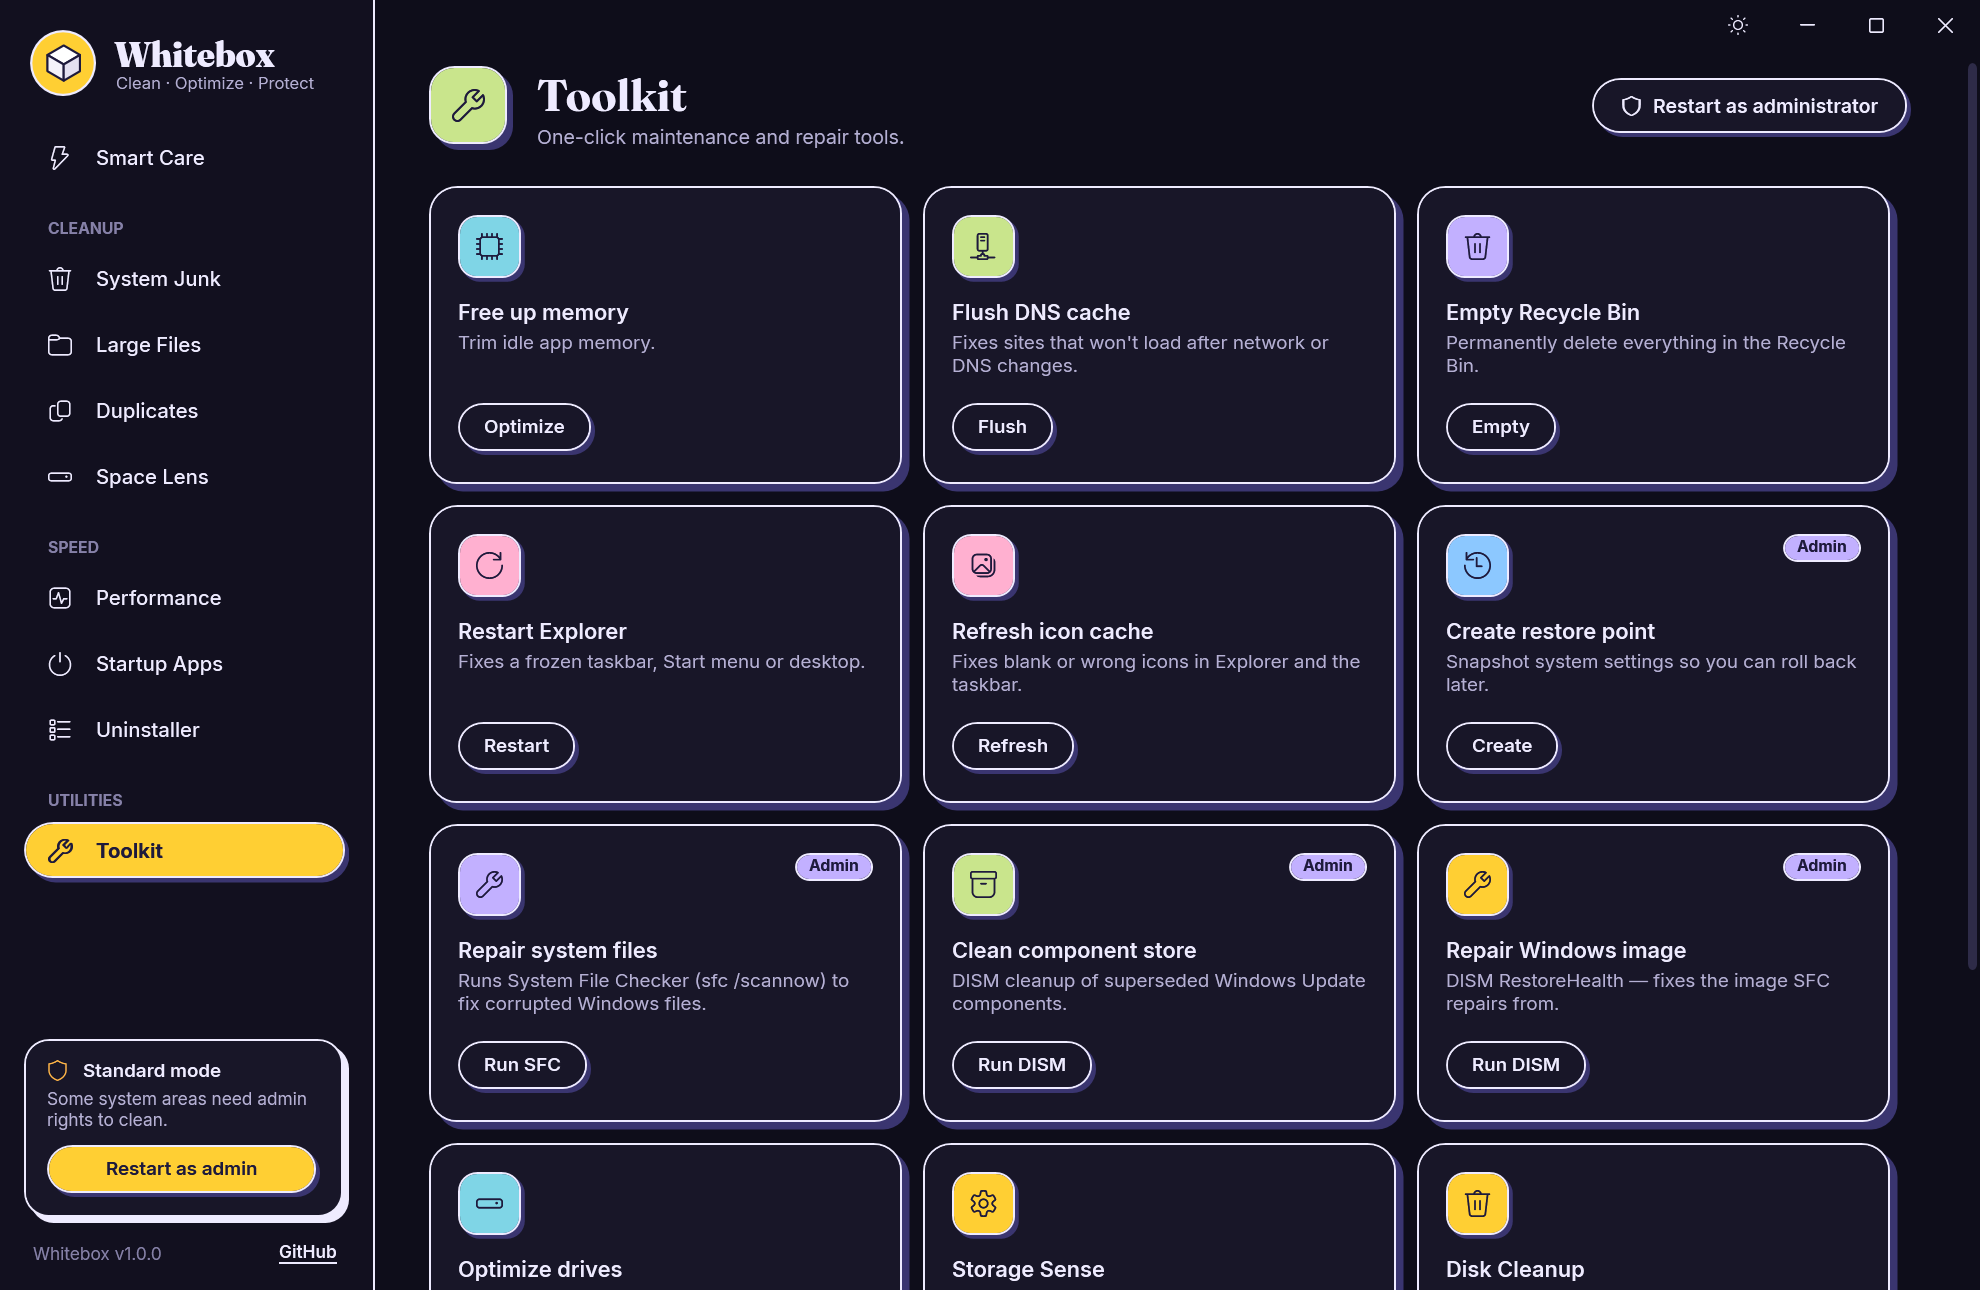
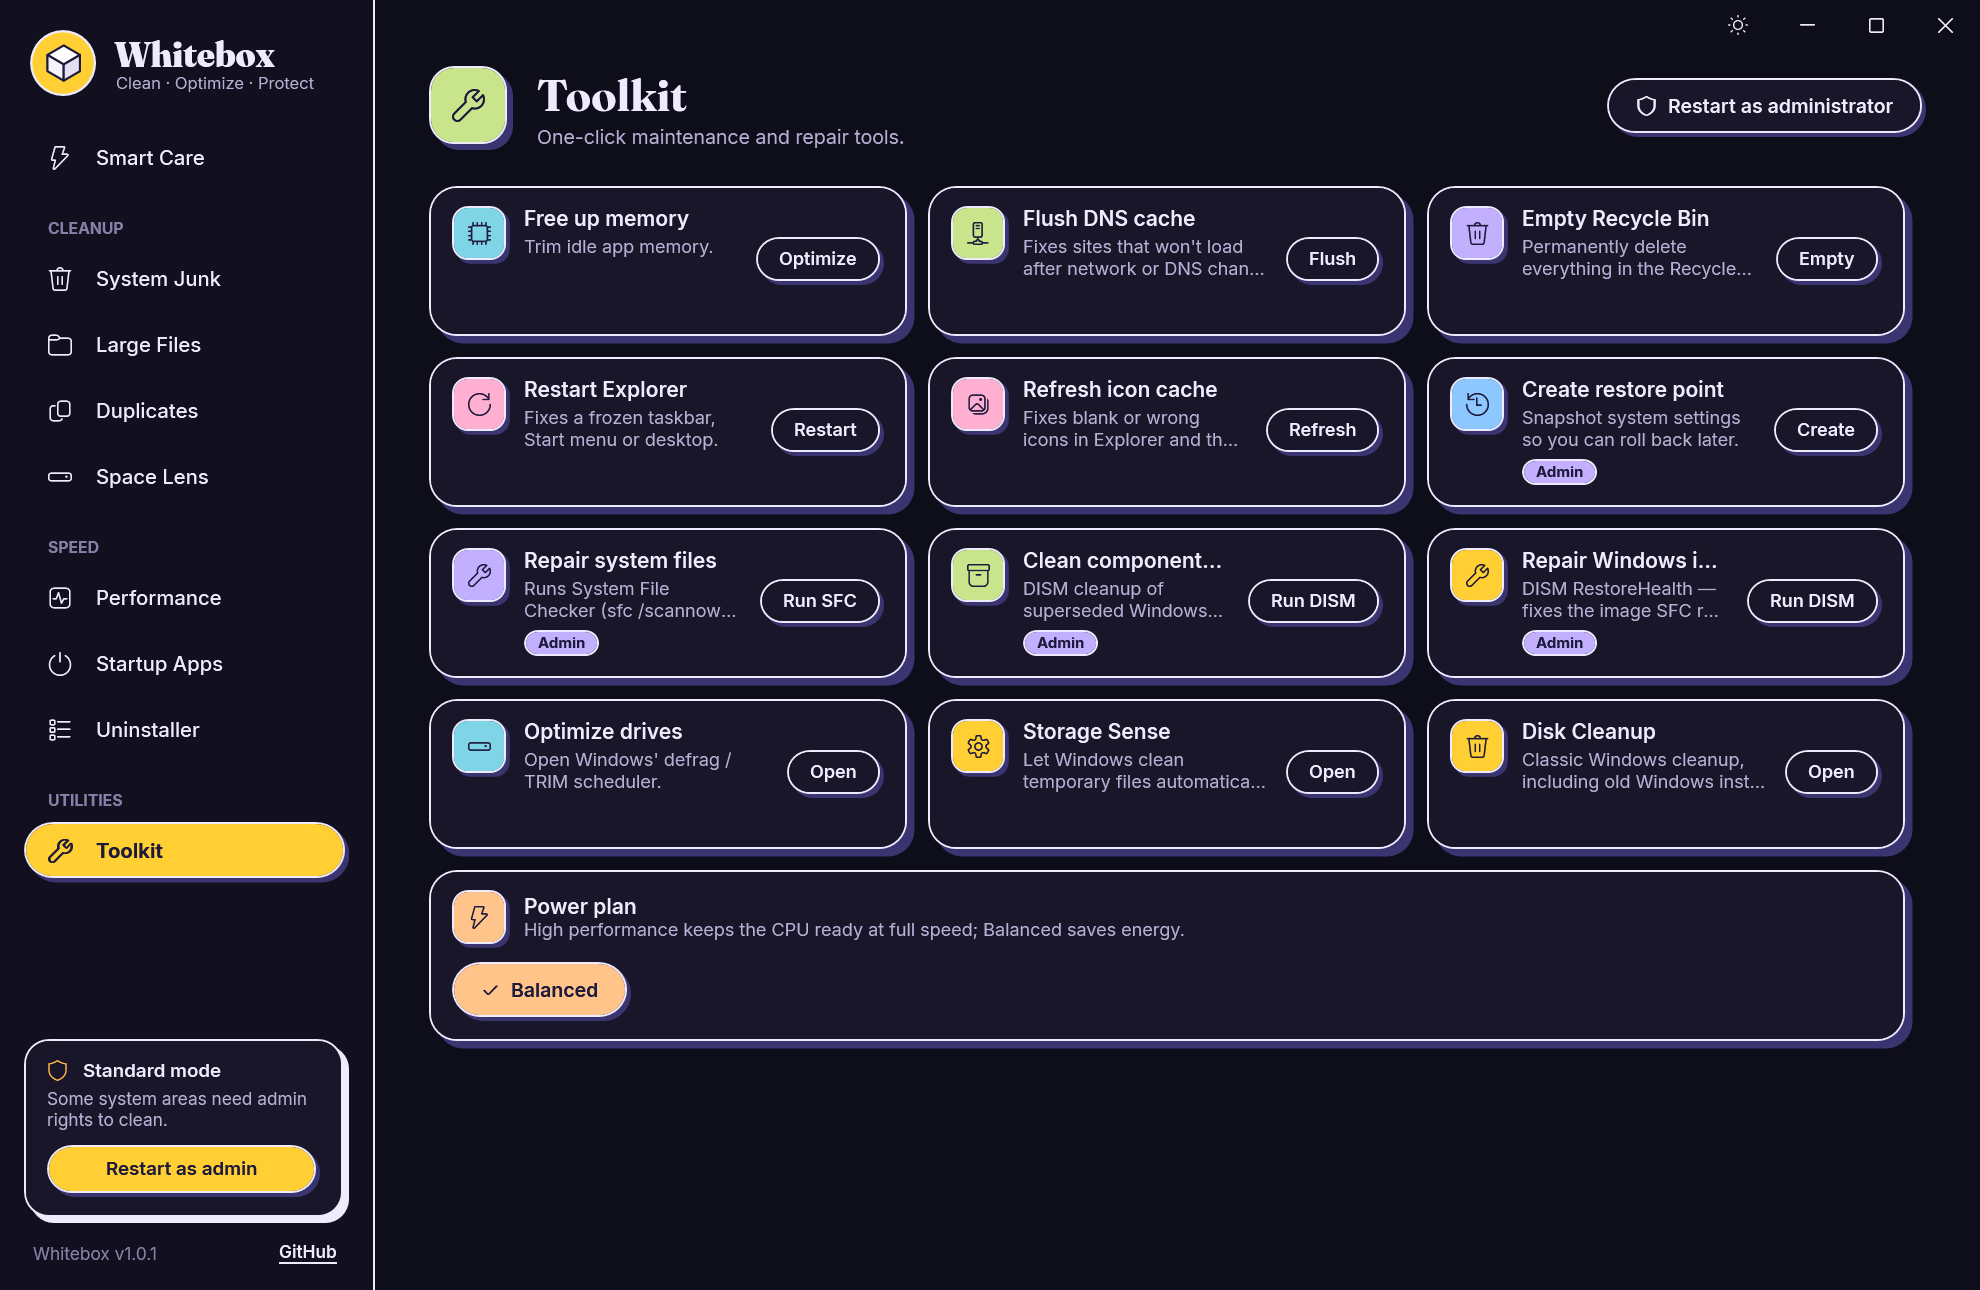
Compact Toolkit cards so the page fits on one screen; release 1.0.1
Tool cards are now single rows (icon, text, action) instead of tall tiles,
so all tools and the power plan fit without scrolling. The Admin chip moves
to the status line so it no longer crowds titles, and the active power plan
button keeps dark text in dark mode.

Changed region(s): [[0.2157, 0.031, 1.0, 1.0], [0.9551, 0.9302, 0.9859, 1.0]]

diff --git a/Views/ToolsView.xaml b/Views/ToolsView.xaml
@@ -22,47 +22,55 @@
                 </ItemsControl.ItemsPanel>
                 <ItemsControl.ItemTemplate>
                     <DataTemplate>
-                        <c:Surface Style="{StaticResource Card}" Margin="0,0,14,14" Padding="18">
-                            <DockPanel>
-                                <DockPanel DockPanel.Dock="Top">
-                                    <c:Surface Style="{StaticResource Tile}" Width="42" Height="42" CornerRadius="12" Background="{Binding Title, Converter={StaticResource NameBrush}}">
-                                        <TextBlock Text="{Binding Glyph}" Style="{StaticResource Icon}" FontSize="18" Foreground="{DynamicResource OnFill}" />
-                                    </c:Surface>
-                                    <Border DockPanel.Dock="Right" Style="{StaticResource Chip}" Background="{StaticResource Lilac}" VerticalAlignment="Top"
-                                            Visibility="{Binding NeedsAdmin, Converter={StaticResource BoolToVis}}">
-                                        <TextBlock Text="Admin" FontSize="10.5" FontWeight="Bold" />
-                                    </Border>
-                                    <Border />
-                                </DockPanel>
-                                <TextBlock DockPanel.Dock="Top" Text="{Binding Title}" Style="{StaticResource H3}" FontSize="14.5" Margin="0,14,0,4" />
-                                <TextBlock DockPanel.Dock="Top" Text="{Binding Description}" Style="{StaticResource Sub}" TextWrapping="Wrap" Height="36" />
-                                <DockPanel DockPanel.Dock="Bottom" Margin="0,12,0,0">
-                                    <Button DockPanel.Dock="Left" Style="{StaticResource GhostButton}" Content="{Binding ActionText}" Command="{Binding Command}" Padding="16,7" FontSize="12.5" />
-                                    <c:Spinner Width="16" Height="16" Thickness="2" Brush="{DynamicResource Ink}" Margin="12,0,0,0"
+                        <!-- compact row: icon · title, description and status · action -->
+                        <c:Surface Style="{StaticResource Card}" Margin="0,0,14,14" Padding="14,12">
+                            <Grid>
+                                <Grid.ColumnDefinitions>
+                                    <ColumnDefinition Width="Auto" />
+                                    <ColumnDefinition Width="*" />
+                                    <ColumnDefinition Width="Auto" />
+                                </Grid.ColumnDefinitions>
+                                <c:Surface Style="{StaticResource Tile}" Width="36" Height="36" CornerRadius="10" VerticalAlignment="Top"
+                                           Background="{Binding Title, Converter={StaticResource NameBrush}}">
+                                    <TextBlock Text="{Binding Glyph}" Style="{StaticResource Icon}" FontSize="15" Foreground="{DynamicResource OnFill}" />
+                                </c:Surface>
+                                <StackPanel Grid.Column="1" Margin="12,0,12,0">
+                                    <TextBlock Text="{Binding Title}" Style="{StaticResource H3}" FontSize="14" TextTrimming="CharacterEllipsis" ToolTip="{Binding Title}" />
+                                    <TextBlock Text="{Binding Description}" Style="{StaticResource Sub}" FontSize="12" TextWrapping="Wrap" TextTrimming="CharacterEllipsis"
+                                               Height="32" Margin="0,3,0,0" ToolTip="{Binding Description}" />
+                                    <DockPanel Height="20" Margin="0,2,0,0">
+                                        <Border DockPanel.Dock="Left" Style="{StaticResource Chip}" Background="{StaticResource Lilac}" Margin="0,0,8,0" VerticalAlignment="Center"
+                                                Visibility="{Binding NeedsAdmin, Converter={StaticResource BoolToVis}}">
+                                            <TextBlock Text="Admin" FontSize="10" FontWeight="Bold" Foreground="{DynamicResource OnFill}" />
+                                        </Border>
+                                        <TextBlock Text="{Binding Status}" Style="{StaticResource Sub}" FontSize="11.5" Foreground="{DynamicResource Success}"
+                                                   VerticalAlignment="Center" TextTrimming="CharacterEllipsis" ToolTip="{Binding Status}" />
+                                    </DockPanel>
+                                </StackPanel>
+                                <StackPanel Grid.Column="2" Orientation="Horizontal" VerticalAlignment="Center">
+                                    <c:Spinner Width="16" Height="16" Thickness="2" Brush="{DynamicResource Ink}" Margin="0,0,10,0"
                                                Visibility="{Binding IsBusy, Converter={StaticResource BoolToVis}}" />
-                                    <TextBlock Text="{Binding Status}" Style="{StaticResource Sub}" FontSize="12" Foreground="{DynamicResource Success}"
-                                               VerticalAlignment="Center" Margin="12,0,0,0" TextTrimming="CharacterEllipsis" />
-                                </DockPanel>
-                                <Border />
-                            </DockPanel>
+                                    <Button Style="{StaticResource GhostButton}" Content="{Binding ActionText}" Command="{Binding Command}" Padding="14,6" FontSize="12" />
+                                </StackPanel>
+                            </Grid>
                         </c:Surface>
                     </DataTemplate>
                 </ItemsControl.ItemTemplate>
             </ItemsControl>
 
             <!-- Power plans -->
-            <c:Surface Style="{StaticResource Card}" Margin="0,4,14,0">
+            <c:Surface Style="{StaticResource Card}" Margin="0,0,14,0" Padding="14,12">
                 <StackPanel>
                     <DockPanel>
-                        <c:Surface Style="{StaticResource Tile}" Width="42" Height="42" CornerRadius="12" Background="{StaticResource GradStartup}">
-                            <TextBlock Text="&#xE945;" Style="{StaticResource Icon}" FontSize="18" Foreground="{DynamicResource OnFill}" />
+                        <c:Surface Style="{StaticResource Tile}" Width="36" Height="36" CornerRadius="10" Background="{StaticResource GradStartup}">
+                            <TextBlock Text="&#xE945;" Style="{StaticResource Icon}" FontSize="15" Foreground="{DynamicResource OnFill}" />
                         </c:Surface>
-                        <StackPanel Margin="14,0,0,0" VerticalAlignment="Center">
-                            <TextBlock Text="Power plan" Style="{StaticResource H3}" FontSize="14.5" />
-                            <TextBlock Text="High performance keeps the CPU ready at full speed; Balanced saves energy." Style="{StaticResource Sub}" />
+                        <StackPanel Margin="12,0,0,0" VerticalAlignment="Center">
+                            <TextBlock Text="Power plan" Style="{StaticResource H3}" FontSize="14" />
+                            <TextBlock Text="High performance keeps the CPU ready at full speed; Balanced saves energy." Style="{StaticResource Sub}" FontSize="12" />
                         </StackPanel>
                     </DockPanel>
-                    <ItemsControl ItemsSource="{Binding Plans}" Margin="0,16,0,0">
+                    <ItemsControl ItemsSource="{Binding Plans}" Margin="0,12,0,0">
                         <ItemsControl.ItemsPanel>
                             <ItemsPanelTemplate>
                                 <WrapPanel />
@@ -77,6 +85,7 @@
                                             <Style.Triggers>
                                                 <DataTrigger Binding="{Binding IsActive}" Value="True">
                                                     <Setter Property="Background" Value="{StaticResource GradStartup}" />
+                                                    <Setter Property="Foreground" Value="{DynamicResource OnFill}" />
                                                 </DataTrigger>
                                             </Style.Triggers>
                                         </Style>

diff --git a/README.md b/README.md
@@ -20,7 +20,7 @@ Clean junk, find what's eating your disk, tame startup apps and keep an eye on y
 
 ## Status
 
-**Current version: 1.0.0** — runs on Windows 10 and 11 (x64).
+**Current version: 1.0.1** — runs on Windows 10 and 11 (x64).
 
 Highlights:
 
